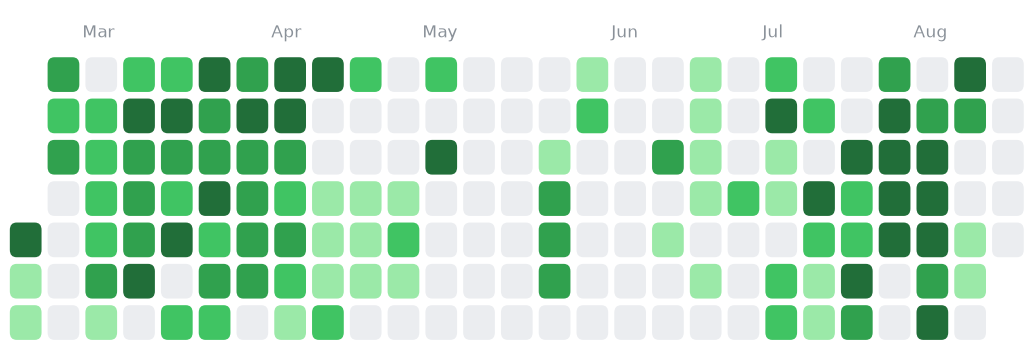
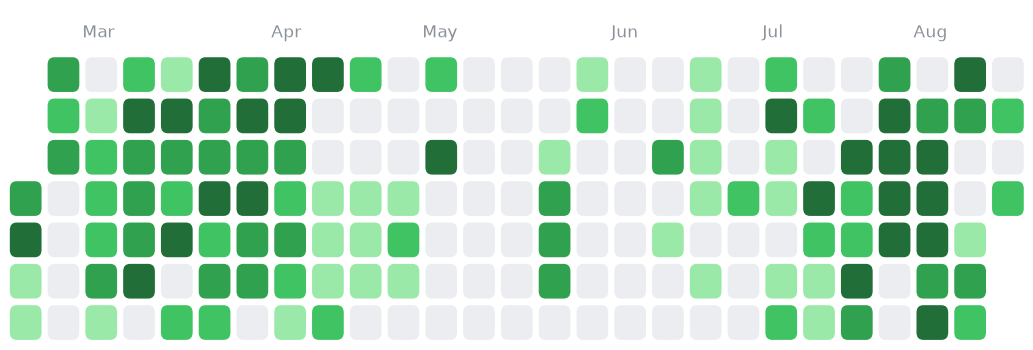
Track the site repo itself as a project
C:\Open Book is being actively edited, so it goes on the board as "The Website",
mapped to a new OVERHEAD: Open Book (website) project in Clockify and linked to
the Site Dev Log page. Absolute folders were already supported; this is the
first project to use one.

Two things real data exposed, both fixed:
- a project can now carry an exclude list, so the website does not report on the
  board's own generated output — internal/activity, the .gitbook assets, docs
- a project added after the last run had no before, so every file it contained
  came through as created. It is baselined quietly on its first pass instead,
  and a genuinely created text file now reads "added <name>" rather than
  reciting every heading inside it

This also closes the gap I flagged: the diff-to-sentence path has now run on a
real edit, not only synthetic ones.

diff --git a/internal/activity/capture_changes.py b/internal/activity/capture_changes.py
@@ -17,7 +17,7 @@ correct: there is no before.
 """
 import os, re, json, time, hashlib, difflib, subprocess
 
-from config import HERE, ROOT, load, path_of, watched
+from config import HERE, ROOT, load, path_of, watched, excluded
 
 SNAP = os.path.join(HERE, "snapshot.json")
 OUT = os.path.join(HERE, "changes.json")
@@ -149,21 +149,27 @@ def main():
         if not os.path.isdir(root):
             continue
         touched, seen = [], set()
+        # A project added to the board since the last run has no before. Record
+        # it and say nothing, rather than announcing every file as created.
+        first_time = not any(k.startswith(p["folder"] + "|") for k in prev)
         for path in walk(root):
             st = state_of(path)
             if st is None:
                 continue
-            key = p["folder"] + "|" + os.path.relpath(path, root)
+            rel = os.path.relpath(path, root)
+            if excluded(p, rel):
+                continue
+            key = p["folder"] + "|" + rel
             seen.add(key)
             snapshot[key] = st
             was = prev.get(key)
             if was is None:
-                if prev_run:                     # only new against a real before
-                    touched.append({"file": os.path.relpath(path, root),
+                if prev_run and not first_time:  # only new against a real before
+                    touched.append({"file": rel,
                                     "how": "created", "at": st["mtime"],
                                     **diff_lines("", st["text"] or "", limit=40)})
             elif was["hash"] != st["hash"]:
-                touched.append({"file": os.path.relpath(path, root),
+                touched.append({"file": rel,
                                 "how": "edited", "at": st["mtime"],
                                 **diff_lines(was.get("text"), st["text"])})
         for key in prev:

diff --git a/internal/activity/collect_activity.py b/internal/activity/collect_activity.py
@@ -13,7 +13,7 @@ board of blanks.
 """
 import os, re, json, time, datetime, subprocess, sys
 
-from config import HERE, ROOT, load, path_of, watched
+from config import HERE, ROOT, load, path_of, watched, excluded
 import clockify
 
 OUT = os.path.join(HERE, "activity.json")
@@ -34,7 +34,7 @@ SKIP_FILE = re.compile(
 DAY = 86400
 
 
-def scan(folder, horizon_days=400):
+def scan(folder, project=None, horizon_days=400):
     """(newest mtime, {day: touches}) for the real working files under folder."""
     newest, days = None, {}
     cutoff = time.time() - horizon_days * DAY
@@ -45,6 +45,8 @@ def scan(folder, horizon_days=400):
                 continue
             p = os.path.join(dirpath, f)
             if NOISE_PATH.search(p):
+                continue
+            if project and excluded(project, os.path.relpath(p, folder)):
                 continue
             try:
                 m = os.path.getmtime(p)
@@ -109,7 +111,7 @@ def main():
                             "hours_week": 0.0, "hours_total": 0.0})
             continue
 
-        newest, days = scan(folder)
+        newest, days = scan(folder, p)
 
         hours = {}
         for e in rows:

diff --git a/internal/activity/config.py b/internal/activity/config.py
@@ -127,6 +127,7 @@ def load():
             p.setdefault("watch", True)
             p.setdefault("heatmap", True)
             p.setdefault("group", os.path.dirname(p.get("folder", "")))
+            p.setdefault("exclude", [])
         return doc
     doc = {"research_root": DEFAULT_RESEARCH, "heatmap_range": "6m",
            "projects": discover(DEFAULT_RESEARCH)}
@@ -159,3 +160,17 @@ def load_secrets():
 def save_secrets(d):
     with open(SECRETS, "w", encoding="utf-8", newline="\n") as fh:
         json.dump(d, fh, indent=2)
+
+
+def excluded(project, rel_path):
+    """True when a path inside a project is one the board should ignore.
+
+    A project that contains the board's own output would otherwise report on
+    itself every run.
+    """
+    rel = rel_path.replace("\\", "/").lower()
+    for ex in project.get("exclude", []):
+        e = ex.replace("\\", "/").lower().strip("/")
+        if rel == e or rel.startswith(e + "/"):
+            return True
+    return False

diff --git a/internal/activity/summarize_changes.py b/internal/activity/summarize_changes.py
@@ -50,6 +50,9 @@ def clause(f):
     if f.get("how") == "deleted":
         return "removed %s" % os.path.basename(name)
 
+    if f.get("how") == "created" and ext in (".tex", ".md", ".txt"):
+        return "added %s" % _stem(name)          # not every heading inside it
+
     if ext in (".tex", ".md", ".txt"):
         bits = []
         heads = (_names(add, r"\\(?:sub)*section\*?\{([^}]{2,60})\}") +

diff --git a/content/personal/what-is-she-up-to.md b/content/personal/what-is-she-up-to.md
@@ -4,9 +4,26 @@ description: What I am working on, and what changed.
 
 # What is she up to?
 
-Away from the desk right now.
+At the desk on **The Website**.
 
 <figure><img src="../.gitbook/assets/activity-heatmap.png" alt="Daily activity across projects"><figcaption><p>581 hours logged in the last six months</p></figcaption></figure>
+
+## Across threads
+
+<details>
+
+<summary>The Website — opened the 2026-08 — Activity board section</summary>
+
+_at the desk · 1 minutes ago_
+
+<figure><img src="../.gitbook/assets/heat-the-website.png" alt="Daily work on The Website"><figcaption></figcaption></figure>
+
+* **1 minutes ago** — opened the 2026-08 — Activity board section
+
+[The Website on the site](../site-dev-log.md)
+
+</details>
+
 
 ## Across threads
 
@@ -62,7 +79,7 @@ _resting · Jul 06_
 
 <summary>World Model Failure — nothing recorded yet</summary>
 
-_resting · Aug 10_
+_resting · Aug 09_
 
 <figure><img src="../.gitbook/assets/heat-world-model-failure.png" alt="Daily work on World Model Failure"><figcaption></figcaption></figure>
 
@@ -90,11 +107,11 @@ _resting · Aug 06_
 
 <summary>FOE-Dreamer — A seed idea about realism conceptual framework and evaluation. We need a viable strategy to…</summary>
 
-_resting · Feb 22_
+_resting · Feb 21_
 
 <figure><img src="../.gitbook/assets/heat-foe-dreamer.png" alt="Daily work on FOE-Dreamer"><figcaption></figcaption></figure>
 
-* **Feb 22** — logged 1.9h — A seed idea about realism conceptual framework and evaluation. We need a viable strategy to take off a piece of that general problem.
+* **Feb 21** — logged 1.9h — A seed idea about realism conceptual framework and evaluation. We need a viable strategy to take off a piece of that general problem.
 * 1.9 hours logged in this window
 
 [FOE-Dreamer on the site](../overview/3-year-agenda/cyber-world-modeling/environment.md)
@@ -108,7 +125,7 @@ _resting · Feb 22_
 
 <summary>What Makes a Problem Difficult — nothing recorded yet</summary>
 
-_resting · Aug 10_
+_resting · Aug 09_
 
 <figure><img src="../.gitbook/assets/heat-what-makes-a-problem-difficult.png" alt="Daily work on What Makes a Problem Difficult"><figcaption></figcaption></figure>
 
@@ -165,7 +182,7 @@ _resting · Aug 09_
 
 <summary>Team Defense Game — nothing recorded yet</summary>
 
-_resting · Aug 09_
+_resting · Aug 08_
 
 <figure><img src="../.gitbook/assets/heat-team-defense-game.png" alt="Daily work on Team Defense Game"><figcaption></figcaption></figure>
 
@@ -291,7 +308,7 @@ _resting · Apr 09_
 <figure><img src="../.gitbook/assets/heat-acceleratepsro.png" alt="Daily work on AcceleratePSRO"><figcaption></figcaption></figure>
 
 * **Apr 09** — logged 1.1h — An extended search from the three papers.
-* **Apr 09** — logged 1.0h — The seed papers, Dyna-PSRO, GenBR, and DiscoverPSROVariants
+* **Apr 08** — logged 1.0h — The seed papers, Dyna-PSRO, GenBR, and DiscoverPSROVariants
 * 203.0 hours logged in this window
 
 [AcceleratePSRO on the site](../overview/3-year-agenda/cyber-world-modeling/accelerate-psro.md)
@@ -301,13 +318,13 @@ _resting · Apr 09_
 
 ## What changed on this site
 
+* **8 minutes ago** — Re-render the board
+* **8 minutes ago** — Post time entries from the popup, and fix the starred-name mismatch
+* **4 hours ago** — Refresh the activity board
 * **4 hours ago** — Re-render the board
 * **4 hours ago** — Wire in Clockify, and fix the heatmap shading
 * **4 hours ago** — Refresh the activity board
 * **4 hours ago** — Re-render the board
 * **4 hours ago** — Add an AcceleratePSRO page under Cyber World Modeling
-* **4 hours ago** — Refresh the activity board
-* **4 hours ago** — Re-render the board
-* **4 hours ago** — Keep projects off the blog pages
 
-_Last looked at Aug 20, 03:46_
+_Last looked at Aug 19, 21:56_

diff --git a/internal/activity/README.md b/internal/activity/README.md
@@ -56,11 +56,27 @@ Without a key everything else still works; the hours are simply absent.
 
 ## The popup
 
-`ask_max.py` opens at most **once an hour**, and only for a project where
-Clockify has no entry and the diff said nothing usable. It never asks twice
-about the same set of files. Skipping or closing it is fine.
+`ask_max.py` opens at most **once an hour**, and only for a project that did
+work Clockify has no entry covering. Each row carries the description (prefilled
+from the diff), an editable hours figure guessed from the file timestamps, and a
+tick naming the Clockify project.
+
+**Save posts the entry to Clockify.** Nothing is ever posted without a
+description you typed and Save pressed — Skip and closing the window post
+nothing. It never asks twice about the same set of files.
 
 `python ask_max.py --now` ignores the hour.
+
+## Excludes
+
+A project can carry an `exclude` list in `projects.json`, of paths relative to
+its folder. The website project uses it so the board does not report on its own
+generated output:
+
+    "exclude": ["internal/activity", "content/.gitbook/assets", "docs"]
+
+A project added to the board after the last run is baselined quietly on its
+first pass, rather than announcing every file it contains as new.
 
 ## The pipeline
 

diff --git a/content/site-dev-log.md b/content/site-dev-log.md
@@ -5,3 +5,18 @@ icon: dev
 
 # Site Dev Log
 
+## 2026-08 — Activity board
+
+The board at [What is she up to?](personal/what-is-she-up-to.md) now reads the
+work itself rather than counting events. Projects are the subfolders under each
+research collection, grouped by thread and named after their pages here.
+
+Each project says what changed in a sentence, drawn from the diff — new
+sections, new citations, new functions, new figures — or from the description
+typed into Clockify, which wins over the generated one. Logged hours shade a
+GitHub-style heatmap, one across the top and one inside each project.
+
+Where work happened and no time was logged against it, a window asks what it
+was and posts the entry to Clockify.
+
+_Last updated: 2026-08_
